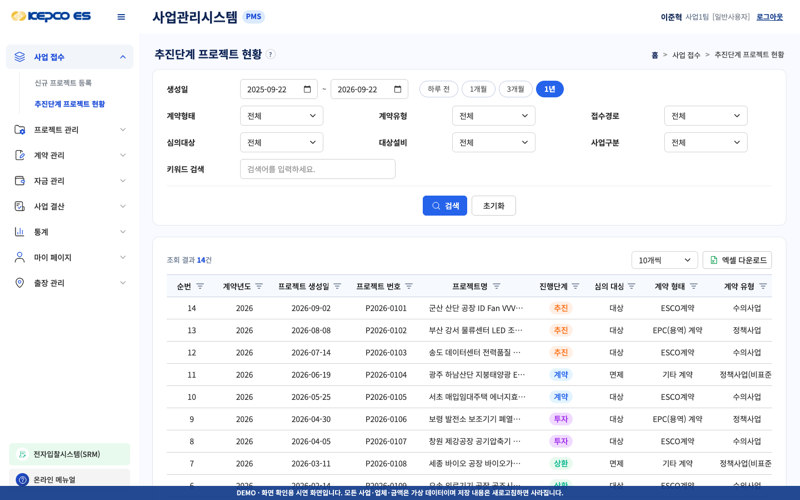
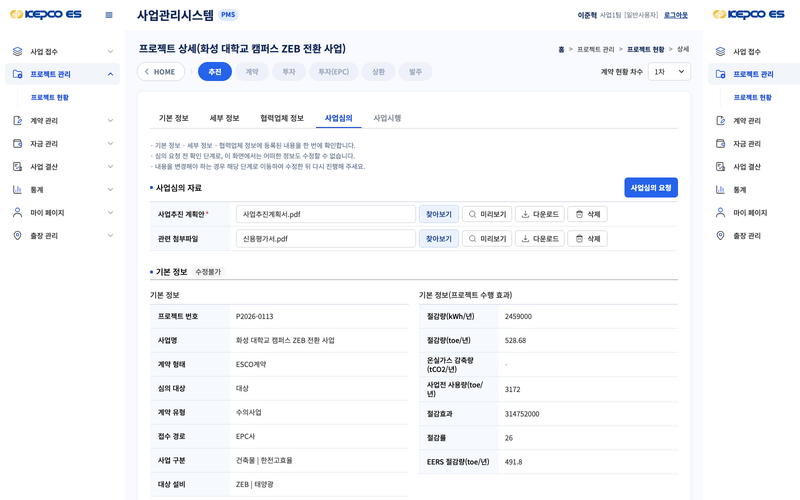
추진 단계 카드: 목록 대신 프로젝트 13 추진 탭 직행 (KAN-332)

diff --git a/index.html b/index.html
@@ -143,16 +143,16 @@
         </div>
       </article>
       <article class="card" data-system="PMS" data-card-id="pms-receipt-promotion">
-        <a class="card__thumb" href="dist/pms-demo.html#/login?as=demo-user&redirect=/receipt/promotion" target="_blank" rel="noopener" title="추진단계 프로젝트 현황 열기">
-          <img src="assets/thumbnails/pms-receipt-promotion.png" alt="추진단계 프로젝트 현황 썸네일" loading="lazy" />
+        <a class="card__thumb" href="dist/pms-demo.html#/login?as=demo-user&redirect=/project/13/promotion" target="_blank" rel="noopener" title="추진 단계 열기">
+          <img src="assets/thumbnails/pms-receipt-promotion.png" alt="추진 단계 썸네일" loading="lazy" />
         </a>
         <div class="card__body">
           <div class="card__head">
             <span class="badge badge--pms">PMS</span>
-            <h2 class="card__title">추진단계 프로젝트 현황</h2>
+            <h2 class="card__title">추진 단계(사업 접수)</h2>
           </div>
-          <p class="card__desc">검색/조회 화면 예시 — 조회 조건·목록·엑셀</p>
-          <a class="btn btn--primary card__open" href="dist/pms-demo.html#/login?as=demo-user&redirect=/receipt/promotion" target="_blank" rel="noopener">
+          <p class="card__desc">추진 단계 화면 예시 — 기본 정보·세부 정보·협력업체 정보·사업심의(요청 중)·사업시행 5스텝(시연 프로젝트 13)</p>
+          <a class="btn btn--primary card__open" href="dist/pms-demo.html#/login?as=demo-user&redirect=/project/13/promotion" target="_blank" rel="noopener">
             새 창으로 열기
             <svg width="14" height="14" viewBox="0 0 24 24" fill="none" stroke="currentColor" stroke-width="2.2" stroke-linecap="round" stroke-linejoin="round" aria-hidden="true"><path d="M18 13v6a2 2 0 0 1-2 2H5a2 2 0 0 1-2-2V8a2 2 0 0 1 2-2h6"/><polyline points="15 3 21 3 21 9"/><line x1="10" y1="14" x2="21" y2="3"/></svg>
           </a>
